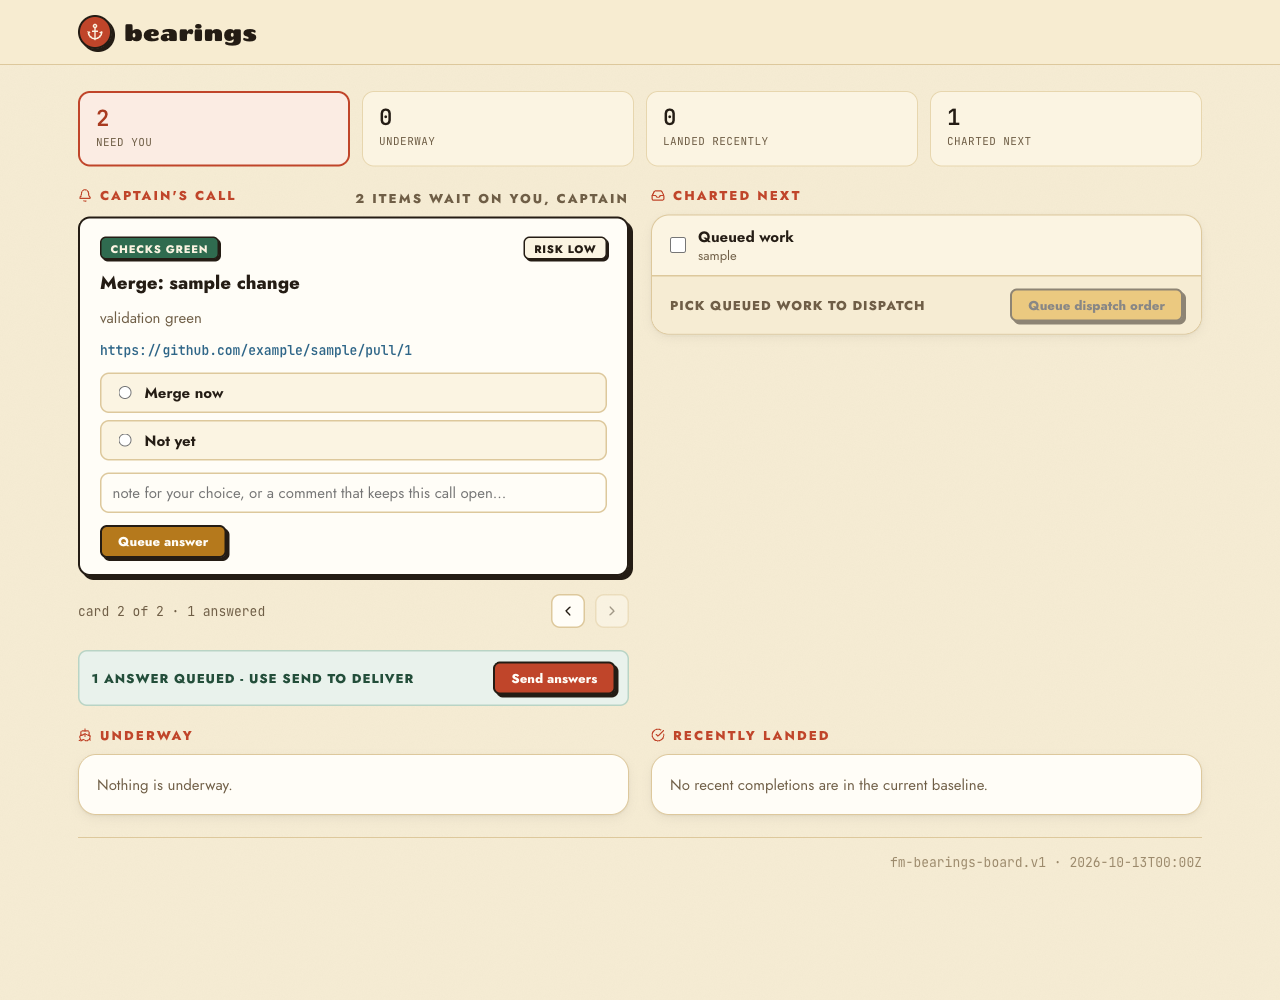
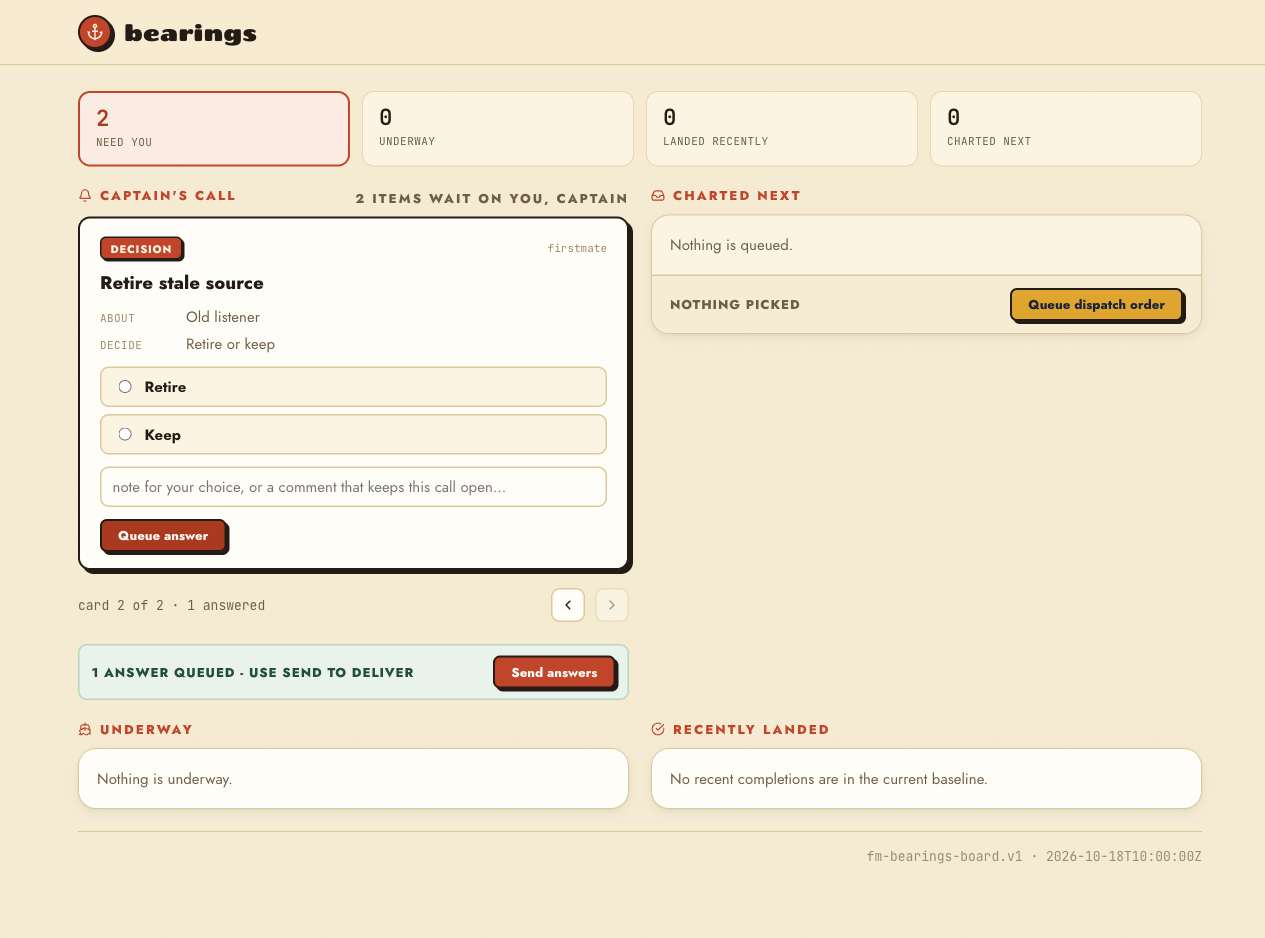
no-mistakes: evidence for fm/fm-lavish-answer-delivery (run 01M57H4CF2V4H8RGGSXEA8W9ZW)

diff --git a/.no-mistakes/evidence/fm/fm-lavish-answer-delivery/lab-backlog-after.md b/.no-mistakes/evidence/fm/fm-lavish-answer-delivery/lab-backlog-after.md
@@ -1,0 +1,15 @@
+## In flight
+
+## Queued
+## Done
+- [x] lab-retention - Log retention period (repo: sample) (kind: captain) (done 2026-10-18) (hold: fm-hold-v1:Y2FwdGFpbiBtdXN0IHBpY2sgdGhlIHJldGVudGlvbiBwZXJpb2Q=) (hold-kind: captain)
+  Resolution recorded by fm-captain-hold.
+  Decision digest: b356dd25edf2d56fa5192de05597e45e40b6c28103a4895bc2514f200d561b65
+  Resolution mode: answered
+
+  Captain decision:
+  Captain answered this call through the captured result lavish-4b492f30809c2fef sequence 1.
+  Task: lab-retention
+  Answer: 30d
+  Answer as shown to the captain: Log retention period -> 30d
+
